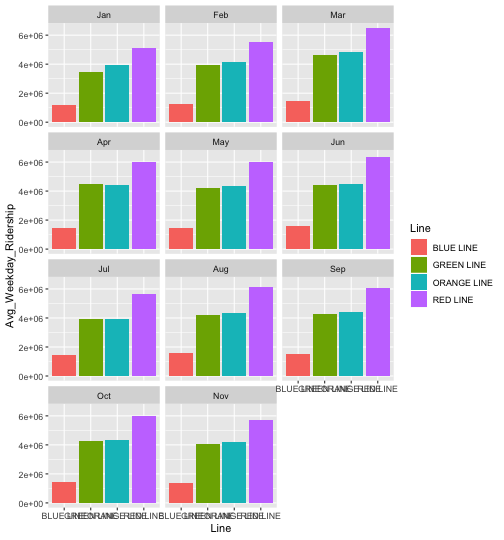
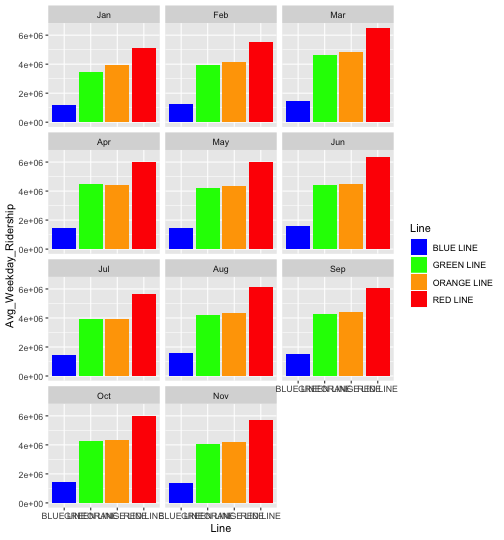
adding a reliabitliy section

diff --git a/_episodes/04-visualization.md b/_episodes/04-visualization.md
@@ -122,11 +122,7 @@ rider_rawdata <- read_csv('data/mbta_ridership2016.csv')
 ```
 
 ```r
-View(rider_rawdata)
-```
-
-```
-## Error in View(rider_rawdata): X11 is not available
+#View(rider_rawdata)
 ```
 
 * Most frequently used when the x-axis represents time and the y-axis represents some other numerical variable; such plots are known as *time series*.  
@@ -210,25 +206,25 @@ ggplot(data = railrides,
 
 ### Summary
 
-Linegraphs, just like scatterplots, display the relationship between two numerical variables. However, the variable on the x-axis (i.e. the explanatory variable) should have a natural ordering, like some notion of time.  We can mislead our audience if that isn't the case.
+Linegraphs display the relationship between two numerical variables. However, the variable on the x-axis (i.e. the explanatory variable) should have a natural ordering, like some notion of time.  We can mislead our audience if that isn't the case.
 
 
-## Barplots {#geombar}
+## Barplots
 
 ### Barplots via geom_bar/geom_col
 
 Stating the above differently:
 
 * When the categorical variable you want to plot is not pre-counted in your data frame you need to use `geom_bar()`.
-* When the categorical variable is pre-counted (in the above `fruits_counted` example in the variable `number`), you need to use `geom_col()` with the `y` aesthetic explicitly mapped.
+* When the categorical variable is pre-counted, you need to use `geom_col()` with the `y` aesthetic explicitly mapped.
 
 
-In this table, the counts of the carriers are pre-counted. To create a barplot using the data frame `railrides`, we
+In this table, the counts of the `Lines` are pre-counted in `Avg_Weekday_Ridership`. To create a barplot using the data frame `railrides`, we
 
 * use `geom_col()` instead of `geom_bar()`
-* map the `y` aesthetic to the variable `number`.
+* map the `y` aesthetic to the variable `Avg_Weekday_Ridership`.
 
-Compare this barplot using `geom_col` in Figure \@ref(fig:flightscol) with the earlier barplot using `geom_bar` in Figure \@ref(fig:flightsbar). They are identical. However the input data we used for these are different.
+
 
 
 ```r
@@ -236,8 +232,17 @@ ggplot(data = railrides, mapping = aes(x = Line, y = Avg_Weekday_Ridership, fill
   geom_col() + facet_grid(~Month) 
 ```
 
-<img src="figure/flightscol-1.png" title="(ref:geomcol)" alt="(ref:geomcol)" width="\textwidth" />
+<img src="figure/railrides-bar-1.png" title="(ref:geomcol)" alt="(ref:geomcol)" width="\textwidth" />
+Like the line graph we can control the colors manually, but this time we need to use `scale_fill_manual()` 
 
+
+```r
+ggplot(data = railrides, mapping = aes(x = Line, y = Avg_Weekday_Ridership, fill=Line)) +
+  geom_col() + 
+  scale_fill_manual(name="LINE",values=c("BLUE LINE"="blue","GREEN LINE"="green","ORANGE LINE"="orange","RED LINE"="red"))
+```
+
+<img src="figure/railrides-bar-color-1.png" title="(ref:geomcol)" alt="(ref:geomcol)" width="\textwidth" />
 
 <div class="learncheck">
 **_Learning check_**
@@ -245,11 +250,9 @@ ggplot(data = railrides, mapping = aes(x = Line, y = Avg_Weekday_Ridership, fill
 
 **(LC3.3)** Why are histograms inappropriate for visualizing categorical variables?
 
-**(LC3.4)** What is the difference between histograms and barplots?
+**(LC3.4)** How many Envoy Air flights departed NYC in 2013?
 
-**(LC3.5)** How many Envoy Air flights departed NYC in 2013?
-
-**(LC3.6)** What was the seventh highest airline in terms of departed flights from NYC in 2013? How could we better present the table to get this answer quickly?
+**(LC3.5)** What was the seventh highest airline in terms of departed flights from NYC in 2013? How could we better present the table to get this answer quickly?
 
 
 
@@ -270,12 +273,29 @@ Barplots are the go-to way to visualize the frequency of different categories of
 
 ```r
 ggplot(data = railrides,
-       mapping = aes(x = Line, y=Avg_Weekday_Ridership, fill = Line)) +
+       mapping = aes(x = Line, y=Avg_Weekday_Ridership, fill = Month)) +
   geom_col()  +
- scale_color_manual(name="Line",values=c("BLUE LINE"="blue","GREEN LINE"="green","ORANGE LINE"="orange","RED LINE"="red"))
+ scale_fill_manual(name="Line",values=c("BLUE LINE"="blue","GREEN LINE"="green","ORANGE LINE"="orange","RED LINE"="red"))
 ```
 
-<img src="figure/unnamed-chunk-7-1.png" title="Stacked barplot comparing the number of flights by carrier and airport" alt="Stacked barplot comparing the number of flights by carrier and airport" width="\textwidth" />
+```
+## Error: Continuous value supplied to discrete scale
+```
+
+<img src="figure/unnamed-chunk-7-1.png" title="Stacked barplot comparing the Avg. Weekday Ridership by Line and Month" alt="Stacked barplot comparing the Avg. Weekday Ridership by Line and Month" width="\textwidth" />
+Ok, what happened here? 
+
+* R is treating Month as a continuous variable (a number), when we want a category - known in R as a factor. 
+* We can make R treat Month as a factor on the fly by wrapping it in the `factor()` function
+
+
+```r
+ggplot(data = railrides,
+       mapping = aes(x = Line, y=Avg_Weekday_Ridership, fill = factor(Month))) +
+  geom_col()  
+```
+
+<img src="figure/unnamed-chunk-8-1.png" title="Stacked barplot comparing the Avg. Weekday Ridership by Line and Month" alt="Stacked barplot comparing the Avg. Weekday Ridership by Line and Month" width="\textwidth" />
 
 This plot is what is known as a *stacked barplot*.  While simple to make, it often leads to many problems. For example in this plot, it is difficult to compare the heights of the different colors (corresponding to the number of flights from each airport) between the bars (corresponding to the different carriers).
 
@@ -283,9 +303,9 @@ This plot is what is known as a *stacked barplot*.  While simple to make, it oft
 **_Learning check_**
 </div>
 
-**(LC3.7)** What kinds of questions are not easily answered by looking at the above figure?
+**(LC3.6)** What kinds of questions are not easily answered by looking at the above figure?
 
-**(LC3.8)** What can you say, if anything, about the relationship between airline and airport in NYC in 2013 in regards to the number of departing flights?
+**(LC3.7)** What can you say, if anything, about the relationship between airline and airport in NYC in 2013 in regards to the number of departing flights?
 
 
 
@@ -302,16 +322,16 @@ ggplot(data = railrides,
   geom_col(position = "dodge")
 ```
 
-<img src="figure/unnamed-chunk-9-1.png" title="Side-by-side AKA dodged barplot comparing the number of flights by carrier and airport" alt="Side-by-side AKA dodged barplot comparing the number of flights by carrier and airport" width="\textwidth" />
+<img src="figure/unnamed-chunk-10-1.png" title="Side-by-side AKA dodged barplot comparing the number of flights by carrier and airport" alt="Side-by-side AKA dodged barplot comparing the number of flights by carrier and airport" width="\textwidth" />
 
 
 <div class="learncheck">
 **_Learning check_**
 </div>
 
-**(LC3.9)** Why might the side-by-side (AKA dodged) barplot be preferable to a stacked barplot in this case?
+**(LC3.8)** Why might the side-by-side (AKA dodged) barplot be preferable to a stacked barplot in this case?
 
-**(LC3.10)** What are the disadvantages of using a side-by-side (AKA dodged) barplot, in general?
+**(LC3.9)** What are the disadvantages of using a side-by-side (AKA dodged) barplot, in general?
 
 
 <div class="learncheck">
@@ -325,19 +345,21 @@ Lastly, an often preferred type of barplot is the *faceted barplot*. This concep
 ggplot(data = railrides,
        mapping = aes(x = Line, y = Avg_Weekday_Ridership, fill = Line)) +
   geom_col() +
-  facet_wrap(~ month(Month, label=T), nrow = 5)
+  facet_wrap(~ month(Month, label=T), nrow = 5) +
+  scale_fill_manual(name="Line",values=c("BLUE LINE"="blue","GREEN LINE"="green","ORANGE LINE"="orange","RED LINE"="red"))
 ```
 
 <img src="figure/facet-bar-vert-1.png" title="Faceted barplot comparing the number of flights by carrier and airport" alt="Faceted barplot comparing the number of flights by carrier and airport" width="\textwidth" />
 
+We did a few things here to clean it up. I used `lubridates` (a package to work with dates) function `month` function to turn our month into a better label. this happens inside the facet function. 
 
 <div class="learncheck">
 **_Learning check_**
 </div>
 
-**(LC3.11)** Why is the faceted barplot preferred to the side-by-side and stacked barplots in this case?
+**(LC3.10)** Why is the faceted barplot preferred to the side-by-side and stacked barplots in this case?
 
-**(LC3.12)** What information about the different carriers at different airports is more easily seen in the faceted barplot?
+**(LC3.11)** What information about the different carriers at different airports is more easily seen in the faceted barplot?
 
 
 
@@ -351,6 +373,42 @@ Barplots are the preferred way of displaying categorical variables.  They are ea
 
 
 ### Mapping with reliabitliy data 
+
+Source: Largely taken from <http://transitdatatoolkit.com/lessons/reliability/>, but coe rewritten in a tidyverse manner. 
+
+This lesson introduces using transit data to measure the reliability of a transit system. In this lesson, we will be using R and RStudio. If you haven’t set up these tools.
+
+* We will be using MBTA Wait Time Reliability data for the Green Line to examine the peak hour reliability of each station served by Boston’s Green Line for this lesson
+* We will map each station’s reliability
+* We will only be looking at one month of the year to keep the data a manageable size.
+* We are working with this file `TDashboardData_reliability_20160301-20160331.csv` in your  Working Directory
+* Look at the Data Dictionary < https://massdot.app.box.com/v/dashboard-data-dictionary> This PDF describes all the fields in the dataset. 
+* MBTA did a good job documenting their data. You may find other datasets have poor documentation. In these cases, you will need to investigate what the fields mean by searching the internet or contacting the organization that produces the data.
+
+> ## Reading Data Dictionary
+> Read the definitions of “OTP_NUMERATOR” and “OTP_DENOMINATOR” for “rail.” What data do these fields contain?
+>
+> The OTP_NUMERATOR for rail is the estimated number of passengers on that day for that transit station, whose wait time was longer than scheduled.
+>
+> The OTP_DENOMINATOR for rail is the estimated number of total passengers on that day for that transit station.
+{: .callout}
+
+#### First steps - Prepare the data
+
+* Many say 60-80% of the work in a data science project is spent in preparing the data for analysis 
+
+We first want to work with the reliability data.
+
+1. Take `rawdata` and pipe through `filter()`
+1. Filter by peak service (weekday rush hour)
+1. Filter by only the green line
+1. Mutate to create or overwrite a variable 
+1. str_trim to remove whitespaces before and after values
+1. Create a rely variable that 
+1. Finds the reliability at each station
+1. Divides the numerator (people who have to wait too long) by the denominator (all riders).
+1. This is the percentage of people who had to wait. 1 - this ratio is the percentage of people who didn't.
+1. drop the columns we don't need for futher analysis
 
 
 

diff --git a/_episodes/05-reliability-dataprep.md b/_episodes/05-reliability-dataprep.md
@@ -65,8 +65,6 @@ To begin let's read in the datasets we will need to work with. This will be two:
 
 
 
-
-
 ```r
 #read in MBTA performance csv file
 rawdata <- read_csv("data/TDashboardData_reliability_20160301-20160331.csv")
@@ -105,19 +103,8 @@ stations <- read_csv("data/mbta_stations.csv")
 ```
 
 ```r
-View(rawdata)
-```
-
-```
-## Error in View(rawdata): X11 is not available
-```
-
-```r
-View(stations)
-```
-
-```
-## Error in View(stations): X11 is not available
+#View(rawdata)
+#View(stations)
 ```
 
 We first want to work with the reliability data.
